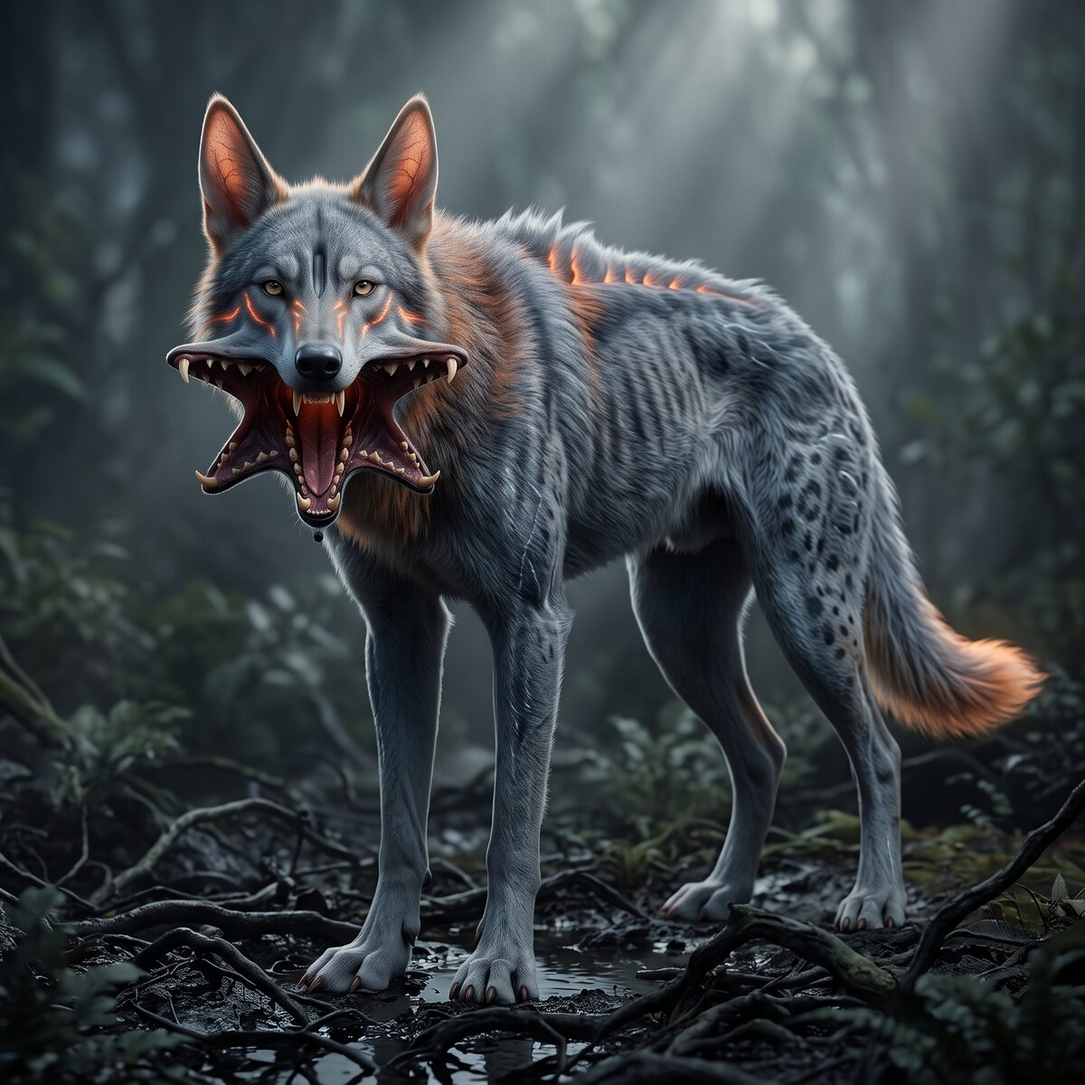
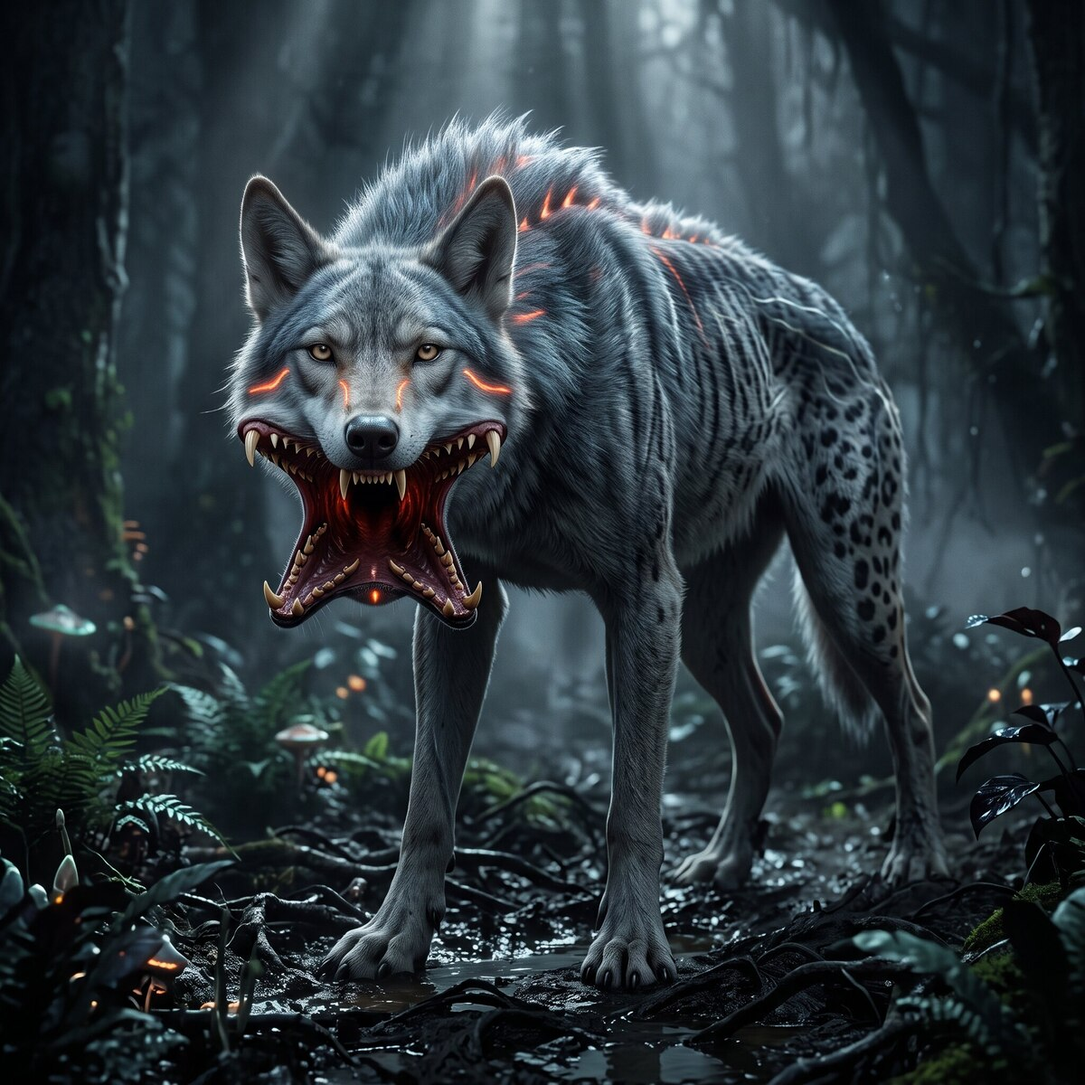
Add per-creature abilities for story-appearing species, fix Karvos prompt template drift, compress updated Karvos portrait, draft Chapter 3 redesign notes
Add abilities field (variable count, grounded in journey.js appearances) to
the 12 story creatures that lacked it, plus one new ability for Karvos.
Fix Karvos image-gen prompt to match the fixed RENDER SPEC block used by
other reference creatures. Compress the newly updated Karvos portrait to
match sibling asset sizes. Add codex/chapter3-redesign-draft.md capturing
the agreed outline for the Chapter 3 rebuild before prose is written.

diff --git a/creatures/karvos.js b/creatures/karvos.js
@@ -81,6 +81,11 @@ creaturesData.push({
                 name: "ความจำกลยุทธ์ข้ามรุ่น", type: "Cognitive — ความจำระดับฝูง",
                 desc: "กลลวงหรือจุดอ่อนของเหยื่อที่ฝูงหนึ่งเคยเรียนรู้มา จะถูกส่งต่อเป็นรูปแบบพฤติกรรมล่าที่ลูกฝูงรุ่นถัดไปทำตามได้เองโดยแทบไม่ต้องลองผิดลองถูกซ้ำ ไม่ใช่ความจำแบบปัจเจกตัวต่อตัว แต่เป็นรูปแบบพฤติกรรมที่ฝังอยู่ในวิธีล่าของทั้งฝูง",
                 origin: "หลักฐานชัดเจนที่สุดคือปุ่มเรืองแสงลวงเป้าที่หางของ Ozgrun — กลลวงที่เคยได้ผลกับ Karvos ตัวเดียวโดดๆ ในอดีต แต่ฝูงที่ล่า Ozgrun ซ้ำมาหลายรุ่นรู้ทันแล้วว่าปุ่มนั้นเป็นของปลอม จึงมุ่งเจาะกลางวงม้วนตัวตรงๆ ไม่สนใจปุ่มที่หางอีกต่อไป — เป็นความรู้ที่ไม่มีตัวใดตัวหนึ่งเคยพิสูจน์เองในชีวิตเดียว แต่ทั้งฝูงรู้ร่วมกัน"
+            },
+            {
+                name: "การแบ่งบทบาทในการล้อม", type: "Hunting Tactic — กลยุทธ์การล่า",
+                desc: "เมื่อล้อมเหยื่อที่มีการป้องกันตัวเฉพาะทาง (เช่น Ozgrun ที่ม้วนตัวเป็นเกราะ) ฝูงแบ่งหน้าที่กันชัดเจนในจังหวะเดียวกันโดยไม่ต้องมีสัญญาณสั่งซ้ำ: สองตัวแยกออกอ้อมไปคนละทางจนถึงตำแหน่งเท่ากันพอดี ตัวกลางออกตัวตั้งแต่เหยื่อเพิ่งเริ่มขยับไม่ใช่รอให้เสร็จสมบูรณ์ก่อน และสองตัวที่งัดจุดอ่อนไม่ปล่อยทันทีที่เจาะสำเร็จแต่ยังค้ำไว้จนแน่ใจว่าจบแล้ว — สามบทบาทที่ต้องแม่นทั้งจังหวะและตำแหน่งพร้อมกันในคราวเดียว",
+                origin: "เหยื่อที่มีเกราะป้องกันตัวสมบูรณ์แบบอย่าง Ozgrun เจาะไม่ได้เลยด้วยตัวเดียวหรือฝูงที่ประสานงานไม่พอ แรงกดดันจากเหยื่อที่ 'แพง' ที่สุดในป่าหมอกจึงคัดเลือกให้ฝูงที่แบ่งบทบาทได้แม่นยำที่สุดอยู่รอด ส่วนฝูงที่ยังล่าแบบรุมพร้อมกันไม่มีระเบียบจะไม่มีทางเจาะเกราะได้เลย"
             }
         ],
         confusion: [
@@ -98,5 +103,5 @@ creaturesData.push({
         notes: [
             ["warn", "<strong>ประเด็นที่แหลมคมที่สุดในเรื่อง</strong>. Luvenn ดำรงชีวิตด้วยการอาบแดดจนตัวอุ่น ส่วน Karvos ล่าด้วยการมองหาความอุ่น ฝูง Luvenn ที่เพิ่งกางแผงคอรับแสงเสร็จจึงสว่างโพลนราวคบไฟในสายตาของ Karvos: <em style='color:#ffb84a'>พฤติกรรมที่หล่อเลี้ยงชีวิตพวกมัน คือพฤติกรรมเดียวกับที่เรียกความตายมาหา</em> และเมื่อตกใจวิ่งหนี ตัวก็ยิ่งร้อน ยิ่งสว่าง ยิ่งถูกไล่ล่าง่ายขึ้น ยกเว้นตัวเอกตัวเดียวที่ไม่ได้วิ่ง"]
         ],
-        prompt: "A medium dog-sized alien wolf-like pack predator standing 0.95 meters at the shoulder, lean and long-limbed with the deep chest and narrow waist of a long-distance chase hunter, but with an unusually thick neck and heavy shoulders. Its head is a long tapering wolf-like skull with a pair of forward-facing pale amber predator eyes, and beneath each eye runs a deep vertical heat-sensing pit organ groove down toward the muzzle. It has a long wolf muzzle with a permanently damp nose, and right now its mouth is wide open in a four-way radial split: not a simple gape, but four distinct wedge-shaped flesh flaps — one pointing straight up, one straight down, one left, one right, exactly like the four points of a plus sign or an X — peeled apart from a shared central opening with clear dark negative space visible between each flap, each flap independently lined with its own row of curved inward-facing fangs, the whole open maw reading unmistakably as a four-petaled flower of teeth rather than an ordinary animal snarl, its jaw circumference nearly twice that of a real wolf, with a throat that glows a dim menacing orange-red deep inside the central opening. Its tall pointed ears rotate independently and are so thin they glow translucent when backlit, showing a web of capillaries. A single downward-facing heat-sensing pit sits beneath its chin. Glowing orange-red bioluminescent stripes run along its cheeks and the bridge of its snout. Its body is a four-legged wolf frame, and along its spine from nape to tail base runs a raised ridge of erectile fur beneath which faintly glowing heat-vent channels shine warm orange. It has 2 pairs of legs: long slender wolf-like front legs with broad splayed paws, thin webbing between the toes and heat-sensing pads underneath, and deep-jointed muscular hind legs built for sustained pursuit. Its long bushy tail ends in a tuft of fur that glows soft orange. Its torso is covered in a dense double coat of coarse water-repellent fur where each hair is hollow with a translucent core, letting body heat glow faintly through at the roots, while its face and the skin around the heat pits are bare, smooth and dark, and its paws and belly are thick calloused hide. Faint vertical tiger-like stripes run along its flanks and dissolve into scattered leopard-like spots across its haunches and legs, overlaid with delicate luminous lines that only appear when its body runs hot. It hunts by heat, tracking the warmth left in footprints, at the visible cost of glowing brighter the longer it runs. Its coloration is a harmonious cool smoke blue-grey palette, deepened by near-black blue shadows in the recesses and lifted by pale silver-grey highlights along the raised fur and ridges, with warm brick-orange tones woven through the neck and shoulder fur and muted amber at the eyes and hair tips, and a glowing orange-red highlight reserved only for its cheek stripes, its spinal heat vents, its tail tuft and the catchlight in its eyes. It stalks low through the dark misty undergrowth of an alien fog-forest floor, among tangled roots, black mud and standing water, head lowered and turned to face the viewer nearly head-on so its four-way split maw is fully visible and unmistakable, spinal ridge fur raised and faintly glowing.\n\nPhotorealistic 3D creature render, cinematic film-VFX quality, standing full-body in its natural habitat environment, three-quarter view with the head turned to camera, shot with a telephoto lens at eye level, shallow depth of field with softly blurred background foliage, volumetric god rays filtering through mist from above, soft naturalistic backlighting that makes the translucent ears and fur glow from within, hyper-detailed micro-texturing on every hair and surface, subsurface scattering, physically-based rendering, muted natural color grading with deep shadows, 1:1 square composition, subject centered and fully visible from head to feet, no readable text."
+        prompt: "A medium dog-sized alien wolf-like pack predator standing 0.95 meters at the shoulder, lean and long-limbed with the deep chest and narrow waist of a long-distance chase hunter, but with an unusually thick neck and heavy shoulders. Its head is a long tapering wolf-like skull with a pair of forward-facing pale amber predator eyes, and beneath each eye runs a deep vertical heat-sensing pit organ groove down toward the muzzle. It has a long wolf muzzle with a permanently damp nose, and right now its mouth is wide open in a four-way radial split: not a simple gape, but four distinct wedge-shaped flesh flaps — one pointing straight up, one straight down, one left, one right, exactly like the four points of a plus sign or an X — peeled apart from a shared central opening with clear dark negative space visible between each flap, each flap independently lined with its own row of curved inward-facing fangs, the whole open maw reading unmistakably as a four-petaled flower of teeth rather than an ordinary animal snarl, its jaw circumference nearly twice that of a real wolf, with a throat that glows a dim menacing orange-red deep inside the central opening. Its tall pointed ears rotate independently and are so thin they glow translucent when backlit, showing a web of capillaries. A single downward-facing heat-sensing pit sits beneath its chin. Glowing orange-red bioluminescent stripes run along its cheeks and the bridge of its snout. Its body is a four-legged wolf frame, and along its spine from nape to tail base runs a raised ridge of erectile fur beneath which faintly glowing heat-vent channels shine warm orange. It has 2 pairs of legs: long slender wolf-like front legs with broad splayed paws, thin webbing between the toes and heat-sensing pads underneath, and deep-jointed muscular hind legs built for sustained pursuit. Its long bushy tail ends in a tuft of fur that glows soft orange. Its torso is covered in a dense double coat of coarse water-repellent fur where each hair is hollow with a translucent core, letting body heat glow faintly through at the roots, while its face and the skin around the heat pits are bare, smooth and dark, and its paws and belly are thick calloused hide. Faint vertical tiger-like stripes run along its flanks and dissolve into scattered leopard-like spots across its haunches and legs, overlaid with delicate luminous lines that only appear when its body runs hot. It hunts by heat, tracking the warmth left in footprints, at the visible cost of glowing brighter the longer it runs. Its coloration is a harmonious cool smoke blue-grey palette, deepened by near-black blue shadows in the recesses and lifted by pale silver-grey highlights along the raised fur and ridges, with warm brick-orange tones woven through the neck and shoulder fur and muted amber at the eyes and hair tips, and a glowing orange-red highlight reserved only for its cheek stripes, its spinal heat vents, its tail tuft and the catchlight in its eyes. It stalks low through the dark misty undergrowth of an alien fog-forest floor, among tangled roots, black mud and standing water, head lowered and turned to face the viewer nearly head-on so its four-way split maw is fully visible and unmistakable, spinal ridge fur raised and faintly glowing.\n\nPhotorealistic 3D creature render, cinematic film-VFX quality, standing full-body in its natural habitat environment, three-quarter view, shot with a telephoto lens at eye level, shallow depth of field with softly blurred background foliage, volumetric god rays filtering through mist from above, soft naturalistic backlighting that makes the translucent ears and fur glow from within, hyper-detailed micro-texturing on every hair and surface, subsurface scattering, physically-based rendering, muted natural color grading with deep shadows, 1:1 square composition, subject centered and fully visible from head to feet, no readable text."
 });

diff --git a/creatures/luvenn.js b/creatures/luvenn.js
@@ -46,6 +46,23 @@ creaturesData.push({
             factors: ["ขนาดตัวที่ใหญ่ (+6)", "ขายาวเรียว (+4)", "จะงอยแข็ง (+3)"],
             note: "ไม่มีอาวุธใดๆ ทั้งสิ้น คะแนนทั้งหมดมาจากมวลกายและความสูงล้วนๆ อันตรายเพียงในแง่ \"ถูกเหยียบหรือชนโดยไม่ตั้งใจ\" เท่านั้น"
         },
+        abilities: [
+            {
+                name: "การหันรับแสงอัตโนมัติ", type: "Sensory — การรับรู้ทิศทางแสง",
+                desc: "หงอนใบไม้คู่บนกระหม่อมวัดทิศทางและความเข้มของแสงตลอดเวลา สั่งให้คอหันตามช่องแสงที่ดีที่สุดโดยอัตโนมัติโดยไม่ต้องมีการตัดสินใจ ทั้งฝูงหยุดเดินและหันไปทางเดียวกันพร้อมกันได้ในเสี้ยววินาทีเดียวเมื่อช่องแสงเปิดออกเหนือหัว",
+                origin: "แผงรับแสงมีค่าแค่ไหนก็ไร้ประโยชน์ถ้าหันผิดทิศแม้เพียงไม่กี่องศาในหมอกทึบที่แสงลอดผ่านเป็นช่องแคบๆ เท่านั้น เซ็นเซอร์นี้จึงพัฒนาให้ไวและเร็วกว่าการมองเห็นด้วยตาเปล่าตามปกติ เพราะพลาดโอกาสรับแสงแต่ละครั้งหมายถึงพลังงานที่เสียไปจริง"
+            },
+            {
+                name: "การดูแลตัวที่อ่อนแอที่สุดโดยไม่ต้องสบตา", type: "Social — พฤติกรรมฝูง",
+                desc: "สมาชิกที่อ่อนแอที่สุดในฝูง (แผงรับแสงกางไม่เต็มที่ ร่างมีรอยแผลเป็นเก่า) ได้รับพื้นที่แสงที่ดีที่สุดและไม่เคยถูกทิ้งไว้ข้างหลังเลย ทั้งที่ไม่มีตัวใดในฝูงเคยมองตรงไปที่มันสักครั้ง — ตัวอื่นๆ เพียงแค่ชะลอฝีเท้าหรือขยับตำแหน่งให้เองโดยไม่มีสัญญาณระหว่างกัน",
+                origin: "ฝูงที่รอดจาก Karvos ได้คือฝูงที่ไม่มีจุดอ่อนให้ผู้ล่าเลือกจู่โจมง่ายๆ พฤติกรรมปรับตำแหน่งให้สมาชิกอ่อนแอที่สุดอัตโนมัติจึงฝังลึกกว่าการตัดสินใจของตัวใดตัวหนึ่ง เป็นกลไกที่ทำงานได้แม้ไม่มีใครในฝูง 'รู้ตัว' ว่ากำลังช่วยเหลือใครอยู่"
+            },
+            {
+                name: "ความจำเส้นทางอพยพข้ามรุ่น", type: "Cognitive — ความจำระดับฝูง",
+                desc: "ฝูงเดินตามร่องเส้นทางเดิมที่สึกลึกลงไปในดินมากกว่าที่สมาชิกฝูงปัจจุบันเพียงไม่กี่ตัวจะเคยเดินสร้างไว้เองได้ นำทางด้วยกลิ่นและทิศลมมากกว่าสายตา และหันรับทิศลมใหม่พร้อมกันทั้งฝูงก่อนที่สมาชิกตัวใดจะทันก้าวเท้าออกไปสักก้าวเดียว",
+                origin: "เส้นทางอพยพที่ปลอดภัยที่สุดไม่ใช่สิ่งที่ฝูงหนึ่งค้นพบได้เองในชั่วอายุเดียว แต่เป็นความรู้ที่สะสมและส่งต่อผ่านร่องเส้นทางกับกลิ่นที่ทิ้งไว้ข้ามรุ่นนับไม่ถ้วน ฝูงที่หลงทางออกจากร่องเดิมมักไม่มีเรื่องราวให้เล่าต่อ"
+            }
+        ],
         notes: [
             ["", "<strong>พฤติกรรมรับแสง (Heliotropic Display)</strong> เมื่อพบจุดที่แสงลอดผ่านเรือนยอด Luvenn จะหยุดนิ่ง ปล่อยรากฝอยจากกีบลงดิน ชูคอขึ้นสุด แล้วกางแผงรับแสงออกเต็มวงเป็นพัดใหญ่รอบหัวคล้ายหางนกยูง จากนั้นค่อยๆ หมุนหัวตามทิศทางแสงตลอดวันเหมือนดอกทานตะวัน ทั้งฝูงทำพร้อมกันเป็นภาพราวกับดงต้นไม้เคลื่อนที่ได้ <em style='color:var(--accent-default)'>และนี่คือช่วงที่พวกมันเปราะบางที่สุด</em> เพราะทั้งเคลื่อนไหวช้าและถูกยึดติดกับพื้นด้วยรากชั่วคราว"],
             ["warn", "ยีนด้อยเรื่องความเร็วเป็นกุญแจของฉากตื่นรู้ — ตัวเอกไม่ได้แค่ลังเลเพราะสัญชาตญาณขัดกัน แต่โดยสรีระแล้วมันก็หนีไม่ทันอยู่แล้ว การที่มันรอดมาได้จึงขัดกับสามัญสำนึกของทั้งฝูงและตัวมันเอง"]

diff --git a/creatures/skyther.js b/creatures/skyther.js
@@ -54,6 +54,23 @@ creaturesData.push({
             ["Acid Regurgitation", "หากถูกศัตรูรุมล้อม มันจะสำรอกน้ำย่อยกรดเข้มข้นที่กำลังย่อยซากสัตว์ในถุงลมออกมาสาดใส่หน้าศัตรู เพื่อซื้อเวลาให้ตัวเองกระพือปีกหนี"],
             ["Thief's Swoop", "รอดูนกนักล่าหรือสัตว์อื่นล่าเหยื่อจนเสร็จ จากนั้นโฉบลงมาด้วยความเร็วสูง ใช้เสียงกระพือปีกและขนาดตัวข่มขู่ให้ผู้ล่าเดิมตกใจผละออก แล้วขโมยซากนั้นไป"]
         ],
+        abilities: [
+            {
+                name: "การได้ยินทิศทางในกะโหลก", type: "Sensory — การได้ยิน",
+                desc: "ไม่มีใบหูภายนอก แต่โครงสร้างสะท้อนเสียงในกะโหลกให้ข้อมูลทิศทางของเสียงได้ในตัวเอง แม้ในความมืดสนิทที่ตาใช้งานไม่ได้เลย เสียงที่ 'ได้ยินในกะโหลก' ยังบอกทิศทางได้แม่นยำพอจะบินตามได้โดยไม่ต้องเห็น",
+                origin: "นักล่าทางอากาศที่ต้องบินสูงเหนือหมอกทึบเป็นเวลานานไม่มีโอกาสพึ่งสายตาได้ตลอดเวลา วิวัฒนาการจึงย้ายภาระจากตาไปที่กะโหลกแทน — เป็นระบบที่ทำงานได้แม้ตาบอดสนิทในหมอก"
+            },
+            {
+                name: "การอ่านกระแสลมร้อน", type: "Sensory — การบิน",
+                desc: "รับรู้ขอบของกระแสลมร้อนที่ลอยขึ้นจากหมอกเบื้องล่างได้จากแรงยกที่ไม่เท่ากันระหว่างปีกซ้าย-ขวา แล้วไต่วนขึ้นไปตามกระแสนั้นได้อย่างแทบไม่ต้องออกแรง เป็นวิธีเดียวที่ร่างกระดูกกลวงอย่างมันจะลอยอยู่กลางอากาศได้นานหลายวันโดยแทบไม่กระพือปีก",
+                origin: "กระดูกกลวงที่แลกมาด้วยความเปราะบางสุดขีดจะไร้ค่าถ้าต้องกระพือปีกตลอดเวลาเหมือนนกทั่วไป ประสาทสัมผัสที่อ่านลมร้อนได้แม่นยำจึงเป็นเงื่อนไขคู่กันที่ทำให้การแลกเปลี่ยนทางวิวัฒนาการนี้คุ้มค่าจริง"
+            },
+            {
+                name: "การอาบแสงด้วยปีกแทนแผงคอ", type: "Cognitive — ความจำข้ามร่าง",
+                desc: "ร่างนี้ไม่มีแผงรับแสงแบบ Luvenn อีกต่อไป แต่แรงกระตุ้นให้ 'อาบแสงเพื่อฟื้นตัว' ยังอยู่ — กางปีกออกเข้าหาแสงแทน เผยให้เห็นร่างแหเส้นเลือดฝอยผ่านเยื่อปีกโปร่งแสง อุ่นเลือดโดยตรงผ่านปีกจนอาการชาที่ปลายปีกหายเร็วขึ้นอย่างเห็นได้ชัด",
+                origin: "สัญชาตญาณเก่าจากร่างก่อนหน้าไม่ได้หายไปเปล่าๆ เมื่อร่างเปลี่ยน มันแค่หาอวัยวะใหม่ที่ใกล้เคียงที่สุดมาทำหน้าที่แทน — หลักฐานว่าความเข้าใจบางอย่างส่งผ่านข้ามร่างได้จริง ไม่ใช่แค่ทักษะที่ต้องเรียนใหม่ทุกครั้ง"
+            }
+        ],
         notes: [
             ["", "<strong>โจรแห่งป่าหมอก</strong> ฝูง Karvos เกลียดชัง Skyther เป็นอย่างมาก เพราะหลายครั้งที่ Karvos ไล่ต้อนเหยื่อจนเหนื่อยหอบและเพิ่งล้มเหยื่อได้ Skyther จะโฉบลงมาจากฟ้าและคีบซากนั้นบินหนีไปต่อหน้าต่อตา"],
             ["warn", "<strong>เงามัจจุราชของ Luvenn</strong> ในร่างของ Luvenn (ตัวเอก) แม้ว่าจะระแวง Karvos บนพื้นป่า แต่สัญชาตญาณความกลัวที่ฝังลึกที่สุดเมื่ออยู่ใต้ช่องว่างของเรือนยอดไม้ คือเงาขนาดมหึมาที่พาดผ่านพื้นดิน สัญชาตญาณ Luvenn จะสั่งให้ 'ยืนนิ่งและหยุดหายใจ' ทันทีเมื่อเห็นเงาของ Skyther"]

diff --git a/creatures/korrune.js b/creatures/korrune.js
@@ -52,6 +52,18 @@ creaturesData.push({
             ["กัดจุดตาย (One-Bite Kill)", "ใช้เขี้ยวเซเบอร์ทูธกัดจุดสำคัญเพียงครั้งเดียวให้เหยื่อหยุดนิ่งทันที ไม่ยื้อยุดต่อสู้ยืดเยื้อเหมือนนักล่าฝูง"],
             ["ประกาศเขตด้วยกลิ่น (Scent Warning)", "ทำเครื่องหมายกลิ่นตามอาณาเขตเป็นระยะ สัตว์ส่วนใหญ่ที่ผ่านมาเจอกลิ่นนี้จะเปลี่ยนเส้นทางทันทีโดยไม่รอพิสูจน์"]
         ],
+        abilities: [
+            {
+                name: "การเคลื่อนไหวไร้เสียงสมบูรณ์", type: "Concealment — การเคลื่อนไหวไร้เสียง",
+                desc: "ขนดูดกลืนเสียงและแสงจนตัวขนาดใหญ่กว่าฝูง Karvos ทั้งฝูงรวมกันเคลื่อนผ่านใบไม้แห้งได้โดยไม่มีแม้แต่ใบเดียวส่งเสียง แม้ตอนเดินจากไปหลังกินอิ่มก็ยังคงเงียบสนิทเหมือนเดิมทุกก้าว",
+                origin: "เพื่อรักษาตำแหน่งจ้าวป่าไว้โดยแทบไม่ต้องต่อสู้เลย ความเงียบสัมบูรณ์กลายเป็นอาวุธหลักมากกว่าเขี้ยวหรือกรงเล็บ เพราะเหยื่อที่ไม่มีทางรู้ล่วงหน้าว่ากำลังถูกจับตามองอยู่ไม่มีโอกาสได้เตรียมตัวหนีเลยสักครั้ง"
+            },
+            {
+                name: "การเลือกเป้าหมายอย่างจงใจ", type: "Cognitive — การประเมินเป้าหมาย",
+                desc: "เลือกจู่โจมตัวที่ทำหน้าที่ประสานงานฝูงโดยเฉพาะแทนที่จะเป็นตัวที่ใกล้หรือเล็กที่สุด และประเมินภัยรอบตัวได้แม่นยำพอจะจ้องสบตาสิ่งที่บินวนอยู่เหนือหัวอยู่หลายวินาทีก่อนตัดสินใจว่าไม่ใช่ภัยคุกคามแล้วกลับไปกินต่อโดยไม่สนใจอีกเลย",
+                origin: "นักล่าซุ่มทั่วไปมักตอบสนองต่อสิ่งที่ใกล้ที่สุดหรือเคลื่อนไหวชัดที่สุด แต่ Korrune แทบไม่มีคู่แข่งหรือภัยคุกคามใดๆ ในป่าหมอกเลย พฤติกรรมประเมินเป้าหมายก่อนตัดสินใจจึงมีที่ว่างให้พัฒนาได้เต็มที่ ไม่ต้องรีบตอบสนองแบบสัญชาตญาณดิบเหมือนนักล่าที่ยังมีคู่แข่ง"
+            }
+        ],
         notes: [
             ["warn", "<strong>ช่องว่างของห่วงโซ่อาหารที่เพิ่งอุดได้</strong> ก่อนหน้านี้ Karvos เป็นนักล่าที่มีคะแนน Danger สูงสุดในยุคปัจจุบันเพียงระดับ \"Dangerous\" (48%) เท่านั้น ไม่ใช่ Apex ตัวจริง Korrune คือคำตอบของตำแหน่งยอดห่วงโซ่ที่ระบบนิเวศยุคป่าหมอกยังขาดอยู่"],
             ["", "<strong>สายเลือดผู้รอดชีวิต</strong> เชื่อกันว่า Korrune สืบเชื้อสายมาจากกลุ่มสัตว์มีขนหนาชนิดเดียวกับที่รอดพ้นฤดูหนาวใหญ่ในยุคหมุนเวียน สายเลือดเดียวกับ <em style='color:var(--accent-default)'>Frostmane</em> แห่งทวีป Kessara แต่วิวัฒนาการไปคนละทิศทางเมื่อกลับมาสู่ป่าที่อบอุ่นชื้นแฉะ"],

diff --git a/creatures/ozgrun.js b/creatures/ozgrun.js
@@ -52,6 +52,13 @@ creaturesData.push({
             ["Full Curl Defense", "ม้วนตัวกลมสนิทภายในเสี้ยววินาทีเมื่อรับรู้ภัย ข้อต่อสันหลังล็อกเข้าหากันจนแผ่นเกราะเรียงชิดไม่มีช่องว่างเลย ปล่อยให้ปุ่มลวงเป้าที่หางยื่นออกด้านนอกวงแทนจุดอ่อนจริง"],
             ["Pack Flip Vulnerability", "จุดอ่อนแท้จริงต้องถูกพลิกหงายโดยแรงภายนอกเท่านั้นถึงจะเผยออกมา ฝูง Karvos ที่รู้ทันกลลวงแล้วใช้ตัวหนึ่งงัดพลิกพร้อมอีกตัวเจาะกลางวงม้วนตัวทันทีที่พลิกได้ ไม่สนใจปุ่มเรืองแสงที่หางเลย"]
         ],
+        abilities: [
+            {
+                name: "การขุดหาด้วยสัมผัสใต้ดิน", type: "Sensory — การรับรู้ใต้ดิน",
+                desc: "กรงเล็บที่ปลายขาหน้าจิกลงในดินโคลนแล้วดินเปิดออกง่ายราวกับเป็นน้ำ นำทางตรงไปยังรากอวบน้ำที่ฝังอยู่ข้างใต้โดยไม่ต้องเห็นหรือดมกลิ่นล่วงหน้าก่อนขุดเลยแม้แต่น้อย",
+                origin: "ร่างที่หุ้มเกราะหนักและม้วนตัวป้องกันภัยได้สมบูรณ์แบบสามารถก้มหน้าขุดหากินได้นานเท่าที่ต้องการโดยไม่ต้องคอยระวังภัยตลอดเวลาแบบสัตว์อื่น ประสาทสัมผัสใต้ดินจึงพัฒนาให้แม่นยำจนแทบไม่ต้องใช้สายตาเลย เพราะไม่มีความจำเป็นต้องเงยหน้าดูรอบตัวบ่อยๆ เหมือนเหยื่อชนิดอื่น"
+            }
+        ],
         notes: [
             ["", "<strong>บทเรียนของฝูง</strong>: ต่างจาก Luvenn หรือ Vashli ที่ล่าได้ด้วยตัวเดียว Ozgrun คือเหยื่อชนิดเดียวในป่าหมอกที่ฝูง Karvos ต้อง 'วางแผน' ล่วงหน้าจริงๆ ก่อนลงมือ — แบ่งหน้าที่พลิกตัวกับเจาะจุดอ่อนอย่างชัดเจน ทั้งยังต้องรู้ทันกลลวงที่หางด้วย เป็นภาพการทำงานเป็นทีมและการเรียนรู้ข้ามรุ่นที่ต่างจากการไล่ต้อนเหยื่อวิ่งแบบปกติโดยสิ้นเชิง"],
             ["", "<strong>ผู้พรวนดินแห่งหนองบึง</strong>: การขุดหารากไม้ตลอดเวลาของมันช่วยเติมอากาศให้ดินโคลนแน่นๆ ของ Zone 3 ทางอ้อม ทำให้รากไม้ยักษ์เหนือมันเติบโตได้ดีขึ้น"]

diff --git a/creatures/dunkrell.js b/creatures/dunkrell.js
@@ -51,6 +51,13 @@ creaturesData.push({
             ["พรางตัวนิ่งสนิท (Frozen Camouflage)", "เมื่อรู้สึกถึงแรงสั่นจากสัตว์ใหญ่เข้าใกล้ จะหยุดเคลื่อนไหวสนิททันที กลืนเป็นเนื้อเดียวกับท่อนไม้ผุหรือก้อนหินรอบตัว"],
             ["พิษป้องกันตัว (Passive Toxin)", "หากถูกกัดหรือบุกรุกจริง เปลือกเชื้อราจะปล่อยสปอร์ขมและระคายเคืองทันที มักทำให้ผู้โจมตีปล่อยและถอยหนีโดยไม่ต้องสู้เลย"]
         ],
+        abilities: [
+            {
+                name: "ความเฉื่อยชาที่ไม่เปลี่ยนแปลงแม้ในอันตราย", type: "Physiology — จังหวะชีวิตคงที่",
+                desc: "เคลื่อนที่ด้วยจังหวะเดิมทุกครั้งไม่ว่าจะกำลังหาซากกินอย่างสงบหรือติดอยู่กลางฝูงสัตว์ที่แตกตื่นหนีตาย ความเร็วสูงสุดที่ทำได้ยังคงช้ากว่าทุกสิ่งรอบตัวอย่างเห็นได้ชัด แต่ไม่เคยแสดงอาการตื่นตระหนกหรือเปลี่ยนจังหวะเลยแม้แต่น้อย",
+                origin: "การพรางตัวเป็นท่อนไม้ผุมีค่าก็ต่อเมื่อไม่มีวันแตกลีลาออกจากบทบาทนั้นเลย สายพันธุ์ที่เคยตอบสนองต่อภัยด้วยความตื่นตระหนกมักเผยตัวเองออกมาจนถูกจับได้ง่ายกว่า ความเฉื่อยชาที่ไม่เปลี่ยนแปลงจึงกลายเป็นข้อได้เปรียบมากกว่าจุดอ่อนในระยะยาว"
+            }
+        ],
         notes: [
             ["", "<strong>ผู้เก็บกวาดที่ไม่มีใครอยากยุ่งด้วย</strong>: Dunkrell มีบทบาทสำคัญที่สุดในวงจรสารอาหารของป่าหมอกทั้งระบบ แต่แทบไม่มีใครสังเกตเห็นมันเลย เพราะความช้าและการพรางตัวที่แนบเนียนจนแยกไม่ออก"],
             ["", "ลักษณะที่ตั้งใจไว้เบื้องต้น: เคลื่อนไหวเชื่องช้ามาก เปลือกคล้ายเชื้อรามีพิษอ่อน สำคัญต่อวงจรสารอาหารของทั้งป่า ทั้งหมดนี้ออกแบบเป็นระบบ Slot เต็มรูปแบบแล้ว"]

diff --git a/creatures/vashli.js b/creatures/vashli.js
@@ -52,6 +52,13 @@ creaturesData.push({
             ["Gravity Drop Escape", "เมื่อถูกจู่โจมจากด้านบน จะไม่กระโดดหนีไปข้างหน้า แต่จะปล่อยมือให้ร่วงดิ่งลงสู่เบื้องล่างทันที แล้วกางพังผืดคอชะลอความเร็วเพื่อไปคว้ากิ่งไม้ในชั้นที่ต่ำกว่า (Drop & Catch)"],
             ["Under-branch Scramble", "เมื่อ Skyther บินโฉบ มันจะพลิกตัวตวัดรัดใต้กิ่งไม้และห้อยหัวซ่อนตัว ปล่อยให้นักล่าโฉบพลาดไปชนเปลือกไม้เปล่าๆ"]
         ],
+        abilities: [
+            {
+                name: "การพรางนิ่งและหายตัวฉับพลัน", type: "Concealment — การพรางตัว",
+                desc: "หมอบนิ่งเป็นก้อนคล้ายปุ่มไม้บนกิ่งจนแทบแยกไม่ออกจากเปลือกไม้จริง แต่ทันทีที่ถูกจับได้ว่ากำลังถูกจ้องมอง จะพลิกตัวห้อยหัวลงใต้กิ่งทันทีและหายไปในเสี้ยววินาที เร็วกว่าที่ผู้ล่าจะทันตัดสินใจพุ่งเข้าใส่",
+                origin: "ไม่มีอาวุธหรือแรงสู้ใดๆ เลย ความอยู่รอดทั้งหมดของมันจึงขึ้นอยู่กับการไม่ถูกจับตัวได้ตั้งแต่แรก แรงกดดันจาก Skyther ที่โฉบจากฟ้าคัดสายพันธุ์ให้เหลือแต่ตัวที่ตอบสนองเร็วกว่าจังหวะที่นักล่ามองเห็นมันจริง"
+            }
+        ],
         notes: [
             ["", "<strong>ระบบนิเวศแห่งเรือนยอด</strong>: ในขณะที่ Luvenn กินแสงอยู่ชั้นล่าง Vashli จะเป็นตัวแต่งกิ่งไม้ ช่วยดึงยอดใบไม้อ่อนไม่ให้ทึบเกินไป ทำให้แสงสามารถส่องทะลุไปถึง Luvenn เบื้องล่างได้"],
             ["warn", "<strong>จุดอ่อนของสัญชาตญาณ</strong>: ตัวเอกในร่าง Luvenn จะคุ้นเคยกับแสงวับๆ สีฟ้าของหาง Vashli ที่ร่วงหล่นลงมาจากฟ้า (เมื่อพวกมันร่วงหล่นหรือพลาดถูกโฉบ) ทำให้บางครั้งตัวเอกเผลอเงยหน้ามองสีฟ้าที่ร่วงลงมา ซึ่งเป็นการเปิดจุดอ่อนให้ Karvos บนพื้นดินเข้าโจมตีได้"]

diff --git a/creatures/palegrim.js b/creatures/palegrim.js
@@ -52,6 +52,13 @@ creaturesData.push({
             ["Scent Trailing", "ตามรอยกลิ่นเครื่องหมายอาณาเขตของ Korrune จากระยะไกลมาก แยกความเข้มข้นของกลิ่นได้ว่าผ่านไปนานแค่ไหนก่อนตัดสินใจเข้าใกล้"],
             ["Startle Flee", "หนีทันทีที่ได้กลิ่นหรือเสียงแปลกปลอมแม้เพียงเล็กน้อย ไม่รอพิสูจน์ว่าอันตรายจริงหรือไม่"]
         ],
+        abilities: [
+            {
+                name: "การประเมินความเสี่ยงด้วยหู-จมูกไม่สมมาตร", type: "Sensory — การประเมินความเสี่ยง",
+                desc: "หูข้างใหญ่หมุนกวาดหาทิศเสียงตลอดเวลาขณะหูข้างเล็กหมอบแนบหัวลดพื้นที่ให้เห็นตัวยาก ส่วนกลีบจมูกที่บานได้ตามรอยทิศที่ Korrune จากไปและแยกความเข้มข้นของกลิ่นได้ว่าผ่านไปนานแค่ไหน — ไม่เข้าใกล้ซากจนกว่าจะมั่นใจว่าเจ้าของซากไปไกลจริงแล้วเท่านั้น",
+                origin: "กินซากที่นักล่าที่อันตรายที่สุดในป่าทิ้งไว้ให้กำไรก็ต่อเมื่อไม่เคยคำนวณผิดพลาดว่ามันจากไปจริงหรือยัง ประสาทสัมผัสสองชุดที่ทำงานคนละหน้าที่พร้อมกันจึงไม่ต้องเดาเลยแม้แต่ครั้งเดียว"
+            }
+        ],
         notes: [
             ["", "<strong>หลักฐานที่มีชีวิต</strong>: นักวิจัยภาคสนามส่วนใหญ่ไม่เคยเห็น Korrune ตัวเป็นๆ เลยสักครั้ง สิ่งเดียวที่ยืนยันได้ว่ามันยังมีชีวิตและล่าอยู่จริงในพื้นที่หนึ่งๆ คือการพบ Palegrim หลบๆ ซ่อนๆ อยู่แถวนั้น"],
             ["", "<strong>ระยะปลอดภัยที่แท้จริง</strong>: Palegrim ไม่เคยเข้าใกล้ Korrune ในระยะที่มองเห็นตัวได้เลยแม้แต่ครั้งเดียวตลอดการสังเกตที่บันทึกไว้ ระยะที่มันเลือกเข้าใกล้เศษซากเสมอคือหลังกลิ่นเตือนภัยจางลงต่ำกว่าระดับที่สัตว์ทั่วไปยังตรวจจับได้เท่านั้น"]

diff --git a/creatures/lumenveil.js b/creatures/lumenveil.js
@@ -48,6 +48,13 @@ creaturesData.push({
             note: "ไม่มีกลไกป้องกันตัวใดๆ เลยแม้แต่อย่างเดียว ความอยู่รอดของสายพันธุ์ขึ้นอยู่กับการงอกใหม่เร็วกว่าอัตราที่ถูกแทะกินเท่านั้น"
         },
         combat: [],
+        abilities: [
+            {
+                name: "การเติบโตไล่ตามแสง", type: "Sensory — การรับรู้ทิศทางแสง",
+                desc: "ผืนที่อยู่ใกล้แสงแรงที่สุดพองตัวและอวบน้ำกว่า ส่วนขอบที่อยู่ในร่มบางจนเกือบโปร่งใส เมื่อต้นไม้เจ้าบ้านโตสูงขึ้นเรื่อยๆ รอยแผลเป็นจางๆ ไล่ระดับขึ้นตามลำต้นคือร่องรอยที่มันค่อยๆ 'ไต่' ตามแสงขึ้นไปทีละหย่อมตลอดหลายปี",
+                origin: "ไม่มีทางเคลื่อนที่แบบสัตว์เลย การเคลื่อนไหวทั้งหมดของมันจึงเกิดขึ้นข้ามชั่วอายุของเนื้อเยื่อตัวเอง ไม่ใช่ข้ามช่วงชีวิตหนึ่งเดียว — รอยแผลบนลำต้นคือประวัติการอพยพที่บีบอัดอยู่ในสิ่งมีชีวิตเดียว"
+            }
+        ],
         notes: [
             ["", "<strong>ปริศนาที่เพิ่งไขได้</strong>: บันทึกเดิมของ Luvenn เคยระบุเพียงว่ามัน 'กินแสงและความชื้น' โดยไม่มีแหล่งอาหารที่ชัดเจน — Lumenveil คือคำตอบ: มันคือพืชที่ Luvenn ปีนขึ้นเรือนยอดต่ำเพื่อแทะกินเวลาแสงที่พื้นป่าไม่พอ อธิบายได้ว่าทำไม Luvenn ถึงยังมีแผงรับแสงที่วิวัฒนาการมาสำหรับ 'สังเคราะห์แสงเสริม' ได้พอดี ไม่ใช่กลไกเดียวที่เลี้ยงร่างกายทั้งหมด"],
             ["", "<strong>ผู้เชื่อมสองชั้นป่า</strong>: ผืน Lumenveil ที่แผ่ขยายจนเชื่อมกันเป็นสะพานธรรมชาติระหว่างกิ่งไม้ยักษ์ บางครั้งกลายเป็นทางเดินให้ Vashli ข้ามกิ่งโดยไม่ต้องกระโดดเสี่ยงตกเลย"]

diff --git a/creatures/vellith.js b/creatures/vellith.js
@@ -51,6 +51,13 @@ creaturesData.push({
             ["Cloud Confusion", "เมื่อถูกคุกคาม หน่วยทั้งแพเบียดตัวเข้าหากันแน่นขึ้นจนมองทะลุเข้าไปด้านในไม่ได้ ทำให้ผู้ล่าแยกเป้าหมายตัวเดียวออกจากฝูงได้ยาก"],
             ["Startle Discharge", "หน่วยที่ถูกสัมผัสโดยตรงปล่อยประจุไฟฟ้าสถิตอ่อนๆ ผ่านเยื่อเชื่อม ไม่ทำอันตรายจริงจัง แต่มากพอจะทำให้ผู้ล่าตัวเล็กสะดุ้งปล่อยมือ"]
         ],
+        abilities: [
+            {
+                name: "การแยกส่วนอาณานิคมไร้ความเจ็บปวด", type: "Physiology — สรีรวิทยาอาณานิคม",
+                desc: "แต่ละหน่วยพองและยุบตัวไม่พร้อมกันตลอดเวลาเหมือนกำลังหายใจแยกกันเอง เมื่อหน่วยหนึ่งถูกฉีกออกไปจากแพ ส่วนที่เหลือทั้งแพไม่มีท่าทีตอบสนองใดๆ เลย ไม่หนี ไม่เปลี่ยนจังหวะ ล่องลอยต่อไปเหมือนไม่มีอะไรเกิดขึ้น",
+                origin: "ไม่มีระบบประสาทส่วนกลางเชื่อมทุกหน่วยเข้าด้วยกัน การสูญเสียหน่วยเดียวจึงไม่ต่างอะไรจากการหลุดร่วงของใบไม้ใบหนึ่งจากต้น — เป็นกลยุทธ์ต้านทานการถูกล่าด้วยจำนวนสำรองมหาศาลแทนการหนีหรือสู้"
+            }
+        ],
         notes: [
             ["", "<strong>เป้าซ้อมมือของนักล่าเวหา</strong>: Skyther วัยอ่อนมักฝึกโฉบจับ Vellith หน่วยที่ลอยต่ำก่อนจะโตพอไปล่าเหยื่อจริงจัง เพราะแทบไม่มีความเสี่ยงและแทบไม่ต่อสู้กลับเลย"],
             ["warn", "<strong>ดัชนีลมชั้นบน</strong>: นักบินระดับสูงในป่าหมอกใช้ทิศทางการลอยของแพ Vellith อ่านกระแสลมร้อนได้แม่นยำกว่าสังเกตหมอกเบื้องล่างเสียอีก เพราะมันลอยตามลมล้วนๆ ไม่มีแรงต้านของตัวเองเจือปน"]

diff --git a/creatures/sevrin.js b/creatures/sevrin.js
@@ -52,6 +52,13 @@ creaturesData.push({
             ["Mimic Glow", "เรืองแสงลายเลียนแบบ Karvos วัยอ่อนทันทีที่รู้สึกถูกจับตามอง สร้างความลังเลให้ผู้ล่าก่อนตัดสินใจโจมตี"],
             ["Glide Escape", "ใช้จังหวะลังเลของผู้ล่ากระโจนออกกางพังผืดร่อนหนีในแนวเฉียงไปยังกิ่งไม้ที่ปลอดภัยกว่า"]
         ],
+        abilities: [
+            {
+                name: "การเลียนแบบลายเรืองแสงของนักล่า", type: "Concealment — การเลียนแบบ (Mimicry)",
+                desc: "เลียนแบบลายเรืองแสงส้มแดงข้างแก้มของ Karvos วัยอ่อนได้แม่นยำพอจะกระตุ้นสัญชาตญาณระแวงภัยของผู้ที่เคยเผชิญหน้า Karvos มาก่อน ให้ชะงักไปเสี้ยววินาทีก่อนจะทันรู้ตัวว่าเป็นตัวเล็กกว่ามากที่ไม่มีอันตรายจริง แล้วใช้จังหวะนั้นกางพังผืดร่อนหนีไปอีกกิ่งอย่างเงียบเชียบ",
+                origin: "ยืมความน่ากลัวของสิ่งที่อันตรายจริงมาใช้ ถูกกว่าการวิวัฒนาการเกราะหรืออาวุธของตัวเองมาก ตราบใดที่ไม่มีนักล่าตัวไหนได้เจอมันบ่อยพอจะจับโป๊ะกลลวงนี้ได้"
+            }
+        ],
         notes: [
             ["", "<strong>นักหลอกลวงแห่งความมืด</strong>: นักวิจัยภาคสนามบางคนเชื่อว่าลายเรืองแสงของ Sevrin วิวัฒนาการมาจากการอยู่ใกล้รังของ Karvos วัยอ่อนเป็นเวลานาน จนค่อยๆ ปรับตัวให้เลียนแบบได้แนบเนียนขึ้นรุ่นต่อรุ่น"],
             ["warn", "<strong>ล่อตาล่อใจ</strong>: ตัวเอกในร่างใดก็ตามที่เคยเผชิญหน้า Karvos มาก่อนมักสะดุ้งถอยหนีทันทีที่เห็นลายเรืองแสงของ Sevrin ในที่มืด ก่อนจะรู้ตัวว่าถูกหลอกเมื่อสายเกินจะไล่จับ"]

diff --git a/creatures/mistcrawler.js b/creatures/mistcrawler.js
@@ -52,6 +52,13 @@ creaturesData.push({
             ["ล็อกเป้าด้วยแรงสั่น (Vibration Lock-on)", "เมื่อรู้สึกถึงแรงสั่นของเหยื่อที่ติดใย จะไต่เข้าหาอย่างแม่นยำโดยไม่ต้องเห็นเลย แล้วฉีดพิษอัมพาตให้หยุดดิ้นก่อนกัดกิน"],
             ["ขดตัวป้องกัน (Defensive Coil)", "เมื่อถูกคุกคามโดยตรง จะม้วนขดตัวเป็นวงแน่นทันที ปิดใต้ท้องที่เปราะบางไว้ด้านในและเผยแผ่นเกราะหลังแข็งออกด้านนอกแทน"]
         ],
+        abilities: [
+            {
+                name: "การล่าด้วยความนิ่งสมบูรณ์", type: "Concealment — การล่าซุ่ม",
+                desc: "ขึงใยเหนียวระหว่างต้นไม้แล้วหมอบนิ่งข้างใยจนกลืนกับเปลือกไม้สนิท ไม่ขยับแม้แต่น้อยเป็นเวลาหลายชั่วโมง ขยับก็ต่อเมื่อมีเหยื่อบินเข้ามาใกล้เกินไปด้วยตัวมันเองเท่านั้น",
+                origin: "ตัวเล็กและช้าเกินกว่าจะไล่ล่าอะไรได้เลย วิวัฒนาการจึงพลิกข้อจำกัดนี้เป็นข้อได้เปรียบ — ความนิ่งที่ทนทานกว่าความอดทนของเหยื่อทุกตัวคือกลยุทธ์ที่ไม่ต้องพึ่งความเร็วหรือแรงเลยสักนิด"
+            }
+        ],
         notes: [
             ["", "<strong>ผู้ล่าที่ไม่ต้องเห็นเหยื่อ</strong> Mistcrawler เป็นหนึ่งในสัตว์ไม่กี่ชนิดของป่าหมอกที่ล่าได้อย่างมีประสิทธิภาพเต็มที่แม้ในความมืดสนิท เพราะไม่เคยพึ่งพาสายตาเป็นหลักตั้งแต่แรก"],
             ["", "ลักษณะที่ตั้งใจไว้เบื้องต้น: หลายขา ทอใยดักแมลง ขนรับแรงสั่นไวมาก ออกแบบระบบ Slot เต็มรูปแบบแล้ว"]
